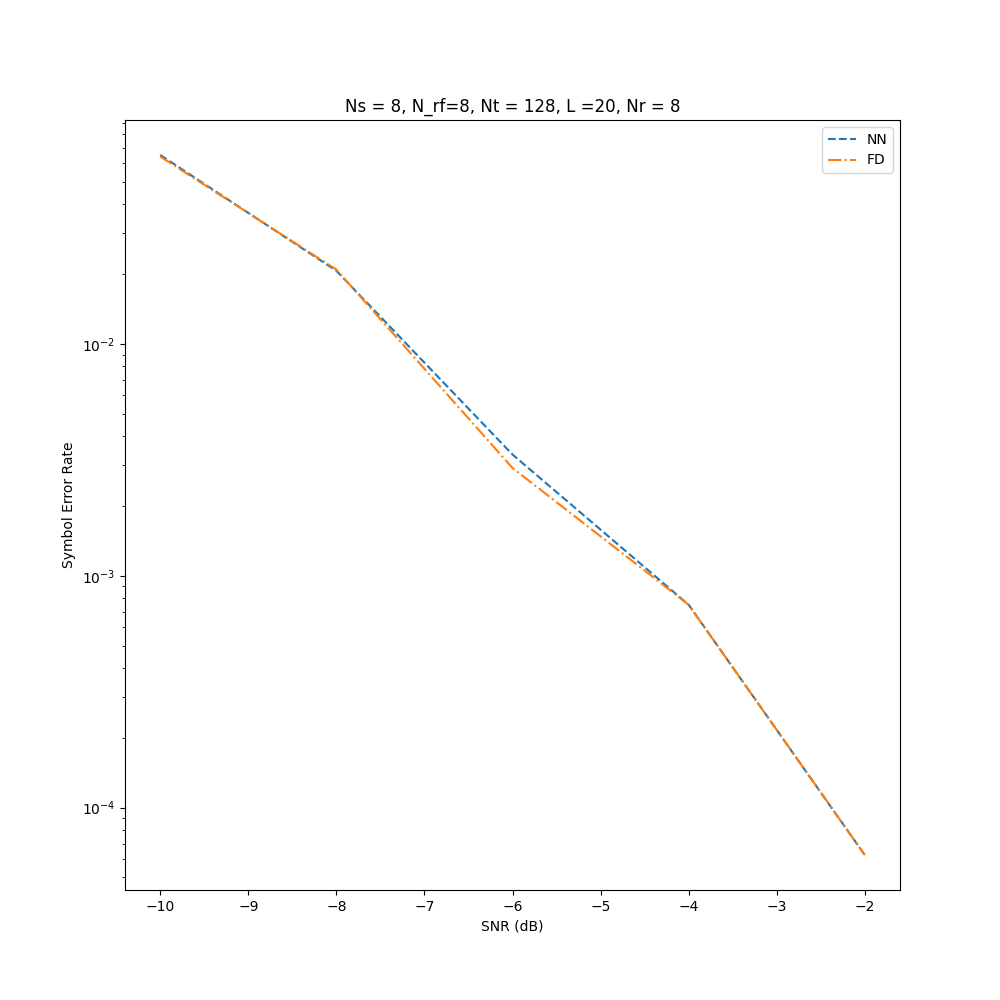
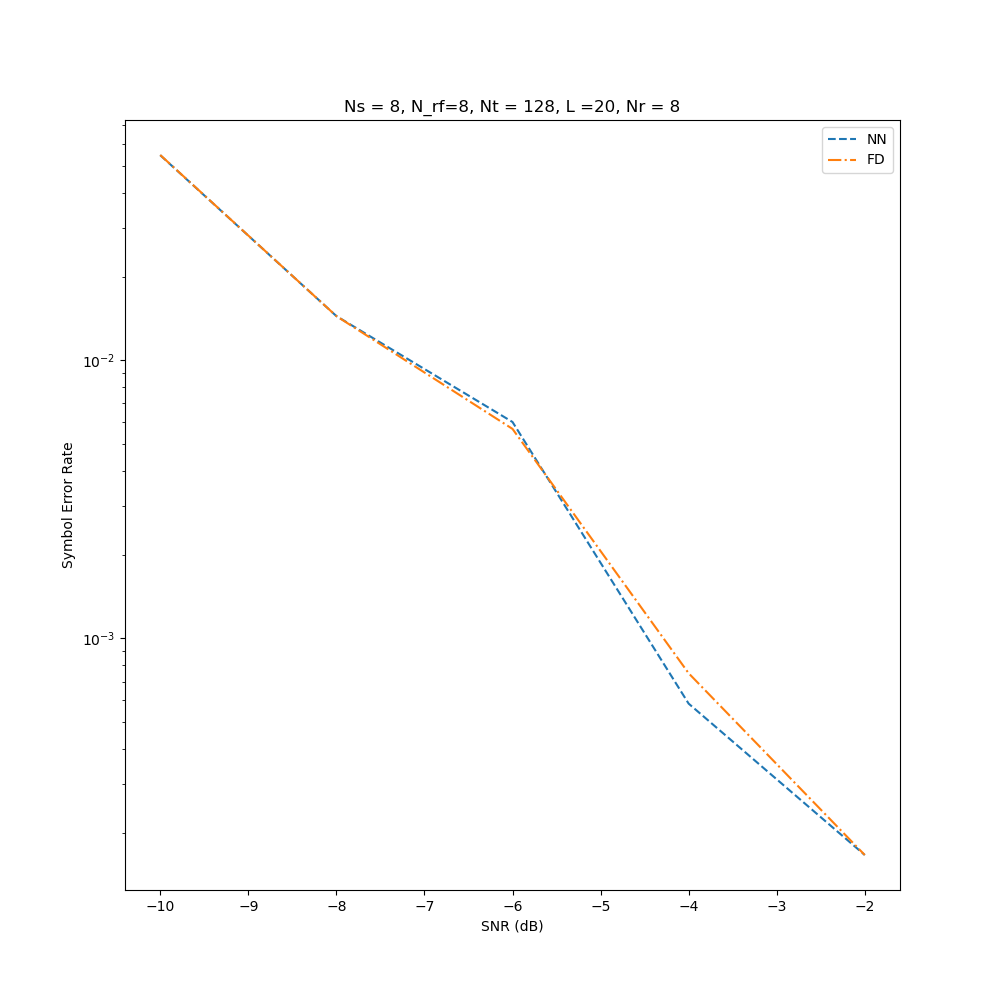
Debugged code

diff --git a/HyperNetwork/inference.py b/HyperNetwork/inference.py
@@ -6,16 +6,16 @@ from models import *
 
 
 def inference(x, channel, base_model, hyper_model):
-'''
-This fucntion is made for inference time and is the main function.
-inputs:
-    x : input( complex and shape (batch_size, N) )
-    channel : channel not PC( complex and shape (N, n_receiver))
-    base_model : pretrained base model
-    hyper_model : pretrained hyper model
-output:
-    pred : concatenated output(batch_size, [real, imag])
-'''
+    '''
+    This fucntion is made for inference time and is the main function.
+    inputs:
+        x : input( complex and shape (batch_size, N) )
+        channel : channel not PC( complex and shape (N, n_receiver))
+        base_model : pretrained base model
+        hyper_model : pretrained hyper model
+    output:
+        pred : concatenated output(batch_size, [real, imag])
+    '''
     channel = SVD(channel)
     channel = np.stack([np.real(channel), np.imag(channel), np.angle(train_channel), np.abs(train_channel)], axis=-1)[None, ...]
     x = np.concatenate([np.real(x), np.imag(x)], axis=-1)

diff --git a/HyperNetwork/utils.py b/HyperNetwork/utils.py
@@ -75,7 +75,7 @@ def inference(x, channel, base_model, hyper_model):
         pred : concatenated output(batch_size, [real, imag])
     '''
     channel = SVD(channel)
-    channel = np.stack([np.real(channel), np.imag(channel)], axis=-1)[None, ...]
+    channel = np.stack([np.real(channel), np.imag(channel), np.angle(channel), np.abs(channel)], axis=-1)[None, ...]
     x = np.concatenate([np.real(x), np.imag(x)], axis=-1)
 
     generated_parameters = hyper_model(channel)
@@ -83,6 +83,7 @@ def inference(x, channel, base_model, hyper_model):
     pred = base_model(x)
 
     return pred
+
 
 def get_tx_ser(par, base_model, hyper_model):
     par.SNR_db = np.arange(par.SNR_range[0], par.SNR_range[1],
